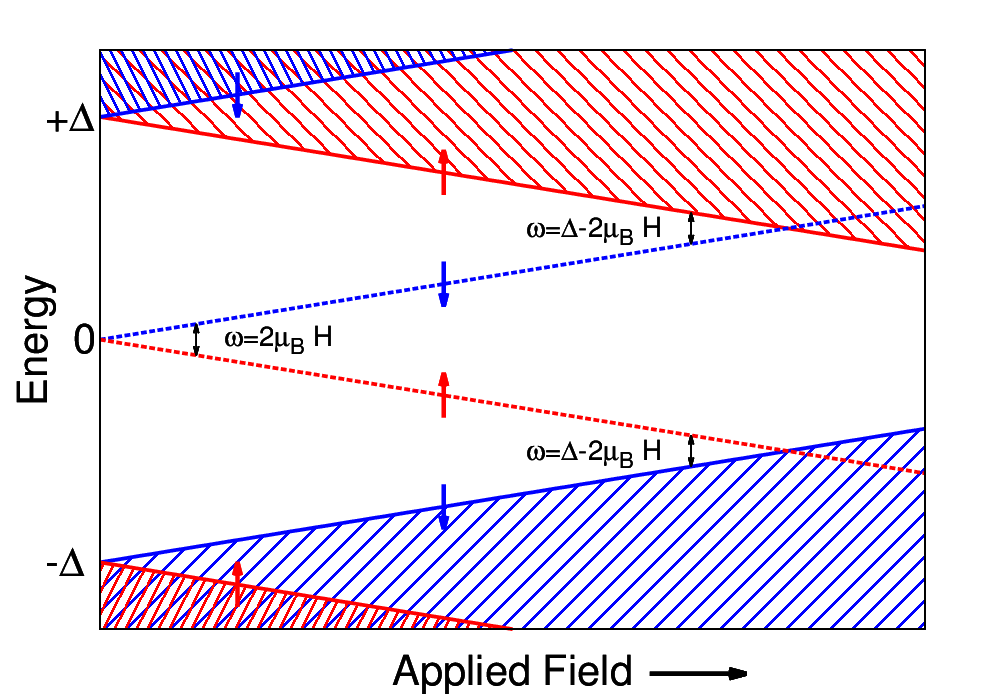
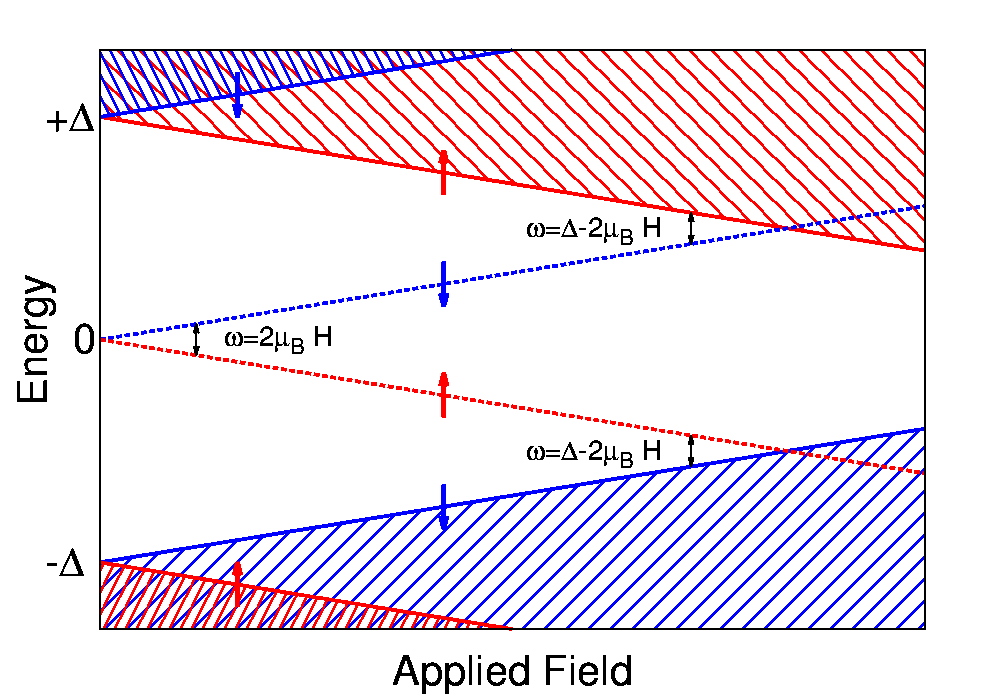
make fig 5 with no arrow on x axis

diff --git a/spin susceptibility of andreev bound states/manuscript.tex b/spin susceptibility of andreev bound states/manuscript.tex
@@ -846,7 +846,7 @@ In bulk $S$-wave one can see a Hebel-Schlicter peak that is suppressed for field
 
 %%%%%%%%%%%%%%%%%%%%%%%%%%%%%%%%%%%%%%%%%%%%%%%%%%%%%%%%%%%%%%%%%%%%%%%%%%%%%%%%
 \begin{figure}
-\includegraphics[scale=0.25]{./Fig5_NoArrow} 
+\includegraphics[scale=0.25]{./Fig5} 
 \caption{\label{fig:rel_trans}
 Splitting of the energy states by Zeeman magnetic field. The bound states contribute to the relaxation rate 
 $T_1^{-1}$ at the domain wall either at small fields, where transitions between spin-flipped bound states are allowed, 
